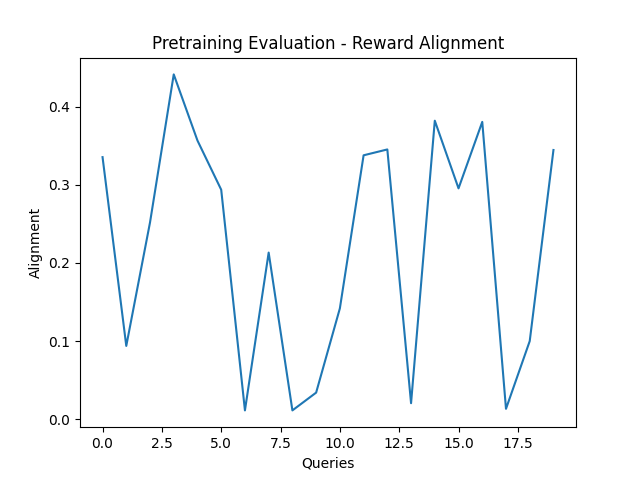
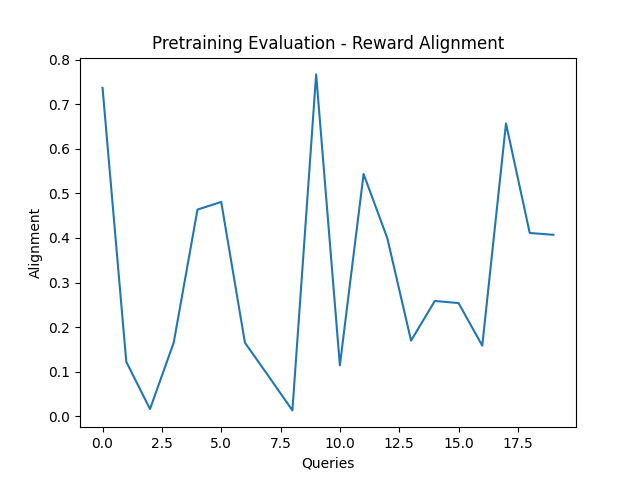
more experiments

diff --git a/learner.py b/learner.py
@@ -47,33 +47,32 @@ class Learner:
             if self.args.batchsize > 1:
                 true_humans, query_seqs, answer_seqs = self.dataset.get_batch_seq(batchsize=self.args.batchsize, seqlength=self.args.sequence_length)
             
+            self.optimizer.zero_grad()
+
             # get latents from queries and answers
             hidden = self.encoder.init_hidden()
 
             # manually handle hidden inputs for gru
-            # compute loss and backprop at each step in sequence
             for t in range(self.args.sequence_length):
-                self.optimizer.zero_grad()
                 beliefs, hidden = self.encoder(query_seqs[t, :, :], answer_seqs[t, :], hidden)
                 hidden = hidden.detach()
 
-                # compute predicted response at each timestep for each sequence
-                inputs = response_dist(self.args, query_seqs[t, :, :], beliefs)
+            # compute predicted response at last timestep for each sequence
+            inputs = response_dist(self.args, query_seqs[-1, :, :], beliefs)
 
-                # get inputs and targets for cross entropy loss
-                inputs = inputs.view(-1, self.args.query_size)
-                targets = answer_seqs[t, :].view(-1)
+            # get inputs and targets for cross entropy loss
+            inputs = inputs.view(-1, self.args.query_size)
+            targets = answer_seqs[-1, :].view(-1)
 
-                loss = self.loss(inputs, targets)
-                loss.backward()
+            loss = self.loss(inputs, targets)
+            loss.backward()     
+            losses.append(loss.item())           
 
-                if (t+1) % self.args.sequence_length == 0:
-                    losses.append(loss.item())
+            self.optimizer.step()                
 
-                self.optimizer.step()
-
-                if self.args.verbose and (i+1) % 100 == 0 and (t+1) % self.args.sequence_length == 0:
-                    print("Iteration %2d: Loss = %.3f" % (i + 1, loss))
+            if self.args.verbose and (i+1) % 100 == 0:
+                print("Iteration %2d: Loss = %.3f" % (i + 1, loss))
+                
 
         # save plots for errors and losses after pre training
         if self.args.visualize:
@@ -101,7 +100,6 @@ class Learner:
             hidden = self.encoder.init_hidden()
             for t in range(self.args.sequence_length):
                 beliefs, hidden = self.encoder(query_seqs[t, :, :], answer_seqs[t, :], hidden)
-                print(beliefs[0])
 
                 # compute predicted response at each timestep for each sequence
                 inputs = response_dist(self.args, query_seqs[t, :, :], beliefs)
@@ -120,6 +118,8 @@ class Learner:
 
                 if self.args.verbose:
                     print("Query %2d: Loss = %.3f, MSE = %.3f, Alignment = %.3f" % (t, loss, mse, align))
+
+            print(beliefs[0])
 
             # save plots for errors after pre training
             if self.args.visualize:

diff --git a/configs/gridworld.py b/configs/gridworld.py
@@ -15,7 +15,7 @@ def args(rest_args):
     parser.add_argument('--visualize', dest='visualize', action='store_true')
     parser.set_defaults(visualize=False)
 
-    parser.add_argument('--temperature', type=int, default=1,
+    parser.add_argument('--temperature', type=float, default=.9,
                         help='Boltzmann rationality temperature')
 
     ##### POLICY #####
@@ -28,11 +28,11 @@ def args(rest_args):
     ##### VAE #####
     parser.add_argument('--encoder_spi', type=int, default=1000,
                         help='number of training steps per iteration for the encoder')
-    parser.add_argument('--precollect_num', type=int, default=5000,
+    parser.add_argument('--precollect_num', type=int, default=1000,
                         help='how many trajectories to pre-collect before training begins')
     parser.add_argument('--buffer_size', type=int, default=10000,
                         help='how many trajectories to keep in VAE buffer')
-    parser.add_argument('--pretrain_len', type=int, default=1000,
+    parser.add_argument('--pretrain_len', type=int, default=500,
                         help='how many iterations to pretrain the vae')
     parser.add_argument('--lr', type=float, default=.01)
     parser.add_argument('--batchsize', type=int, default=100,
@@ -47,6 +47,8 @@ def args(rest_args):
                         help='size of hidden layers')
     parser.add_argument('--fc_layers', type=list, default=[16, 32, 64], 
                         help='fc layers for VAE')
+    parser.add_argument('--use_mu', dest='sample_belief', action='store_false')
+    parser.set_defaults(sample_belief=True)
 
     ##### ENVIRONMENT #####
 

diff --git a/models/encoder.py b/models/encoder.py
@@ -26,8 +26,6 @@ class Encoder(nn.Module):
                           num_layers=args.gru_hidden_layers)
 
         # fc layers after the RNN
-        # TODO: add option to make multiple layers
-
         fc_layers = []
         curr = self.hidden_dim
         for l in args.fc_layers:
@@ -39,11 +37,13 @@ class Encoder(nn.Module):
         self.fc_logvar = nn.Linear(curr, args.num_features)
 
     def reparameterize(self, mu, logvar):
-        #std = torch.exp(0.5*logvar)
-        #eps = torch.randn_like(std)
-        #belief = eps.mul(std).add_(mu)
-        #belief = belief / torch.linalg.norm(belief, dim=-1).unsqueeze(-1)
-        belief = mu / torch.linalg.norm(mu, dim=-1).unsqueeze(-1)
+        if self.args.sample_belief:
+            std = torch.exp(0.5*logvar)
+            eps = torch.randn_like(std)
+            belief = eps.mul(std).add_(mu)
+            belief = belief / torch.linalg.norm(belief, dim=-1).unsqueeze(-1)
+        else:
+            belief = mu / torch.linalg.norm(mu, dim=-1).unsqueeze(-1)
         return belief
 
     def forward(self, query, answer, hidden):
@@ -54,7 +54,7 @@ class Encoder(nn.Module):
         output = F.relu(output)
 
         # run through gru
-        #output, hidden = self.gru(output, hidden)
+        output, hidden = self.gru(output, hidden)
 
         # run through fc layers
         for l in self.fc_layers:
